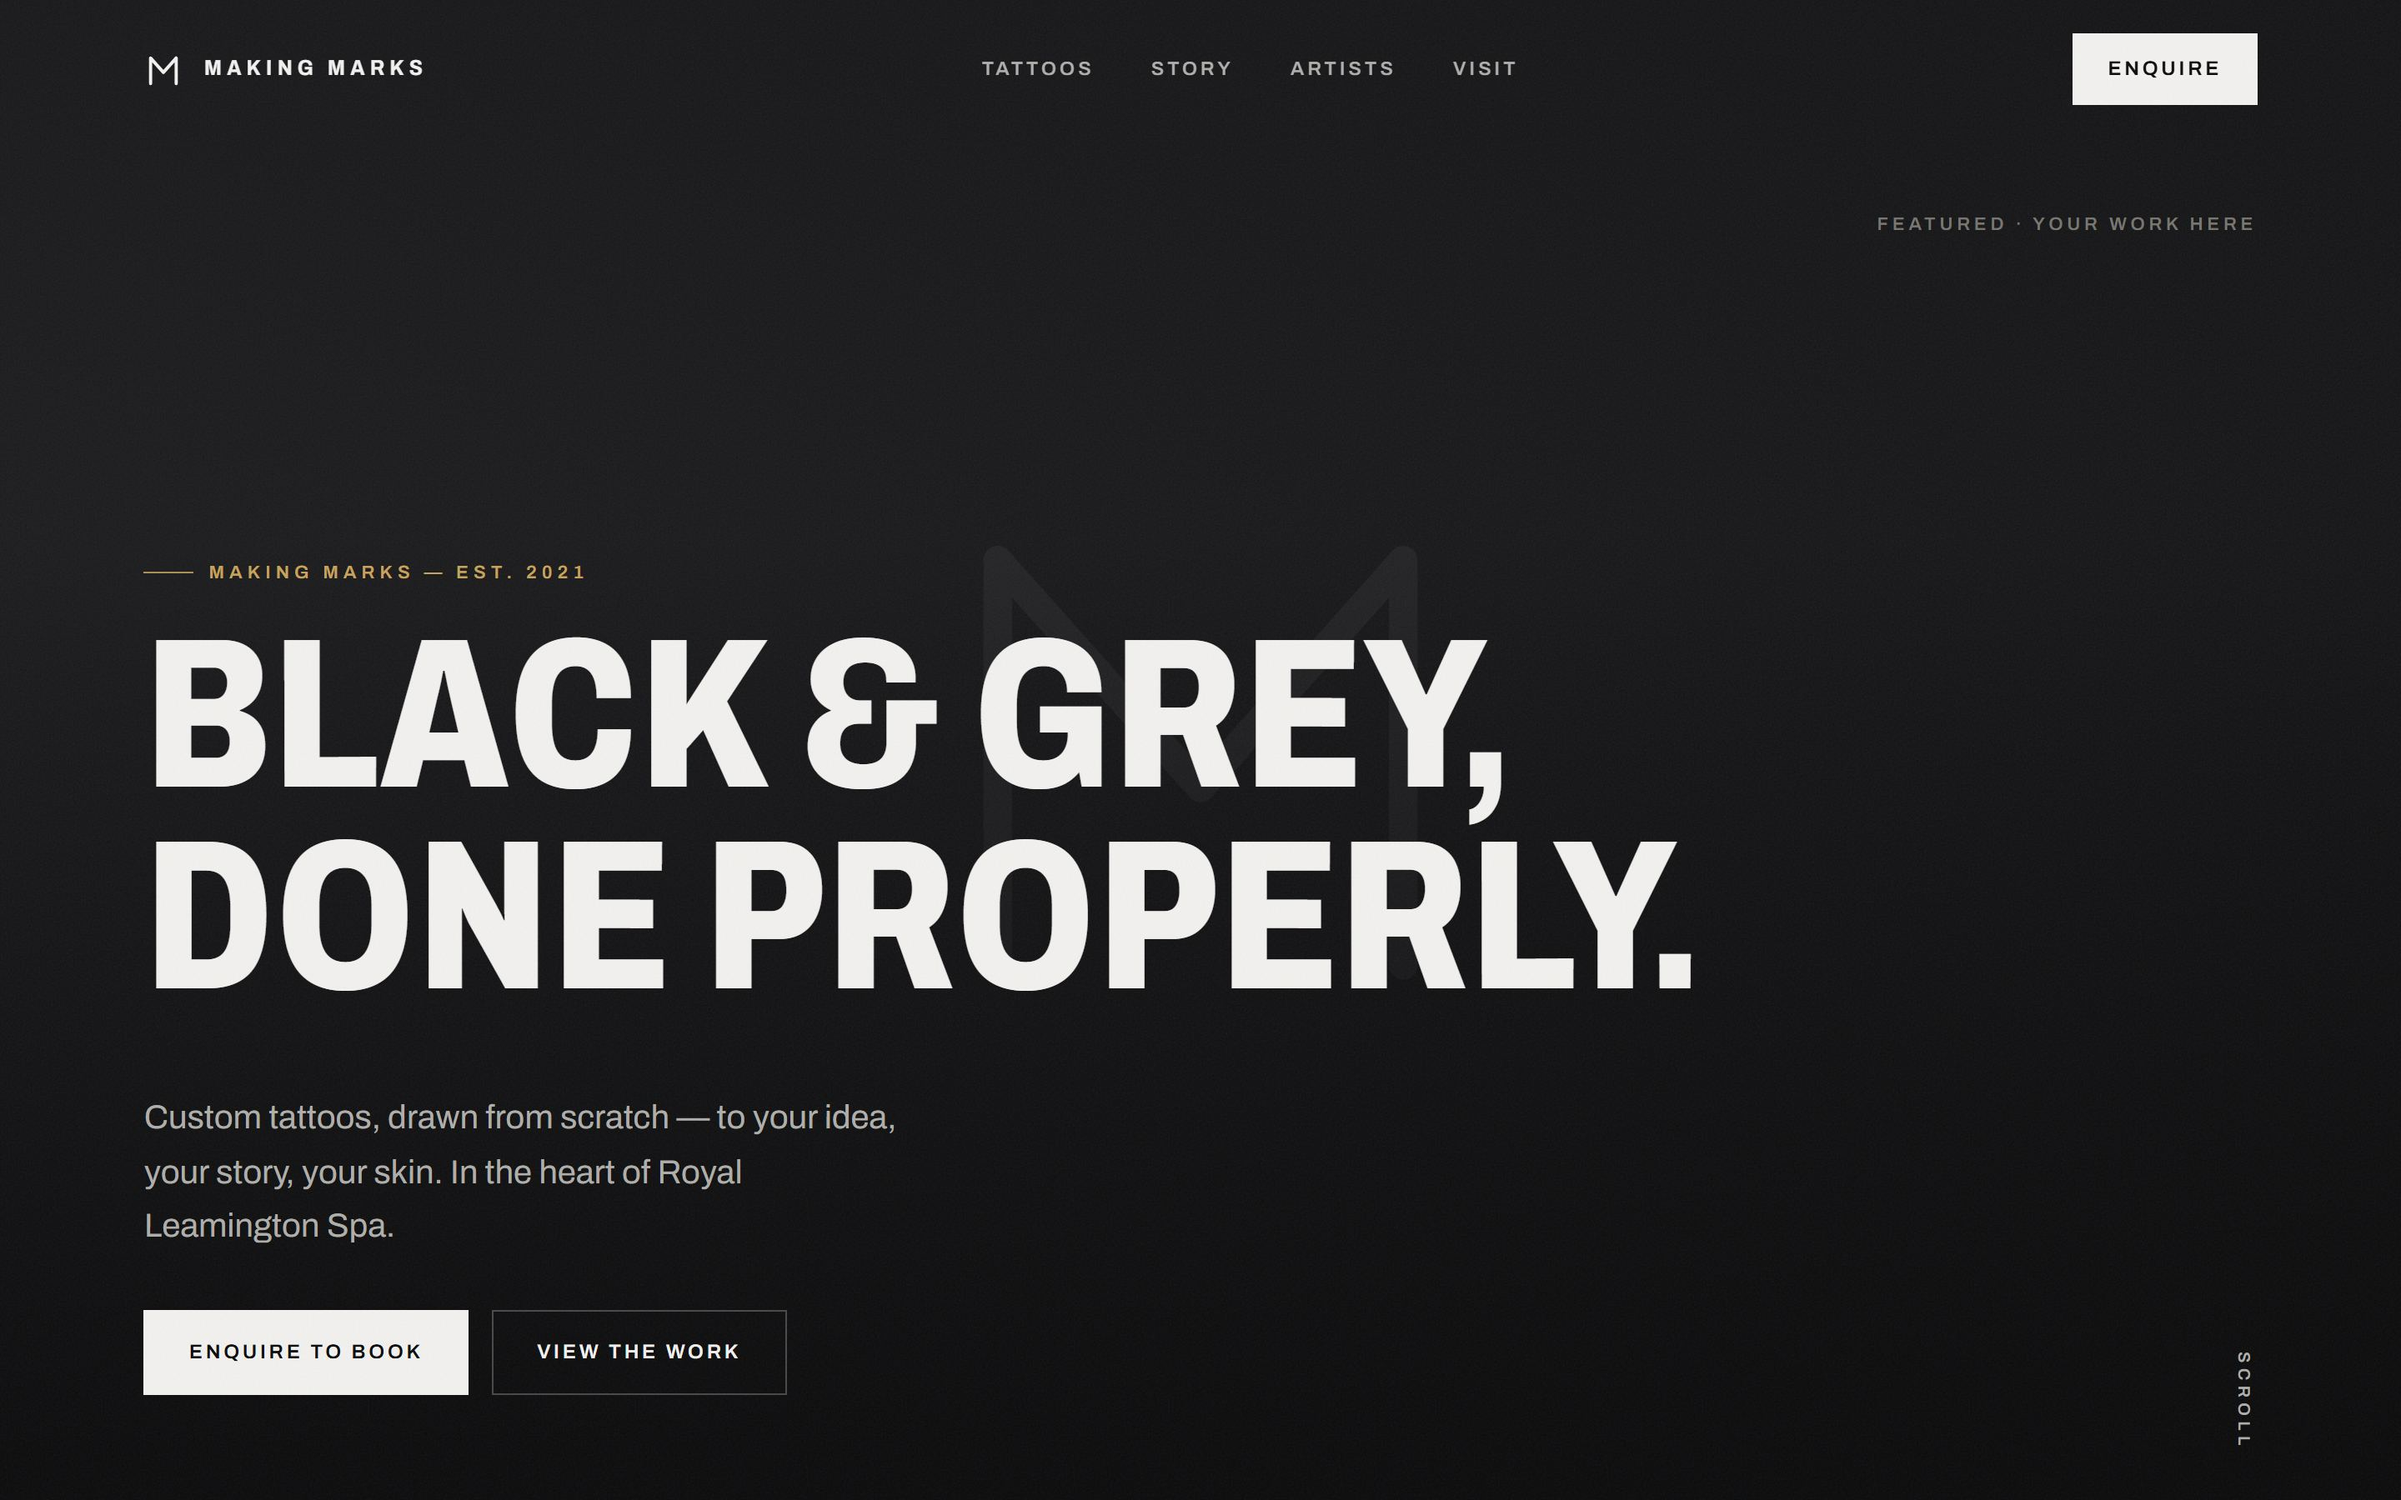
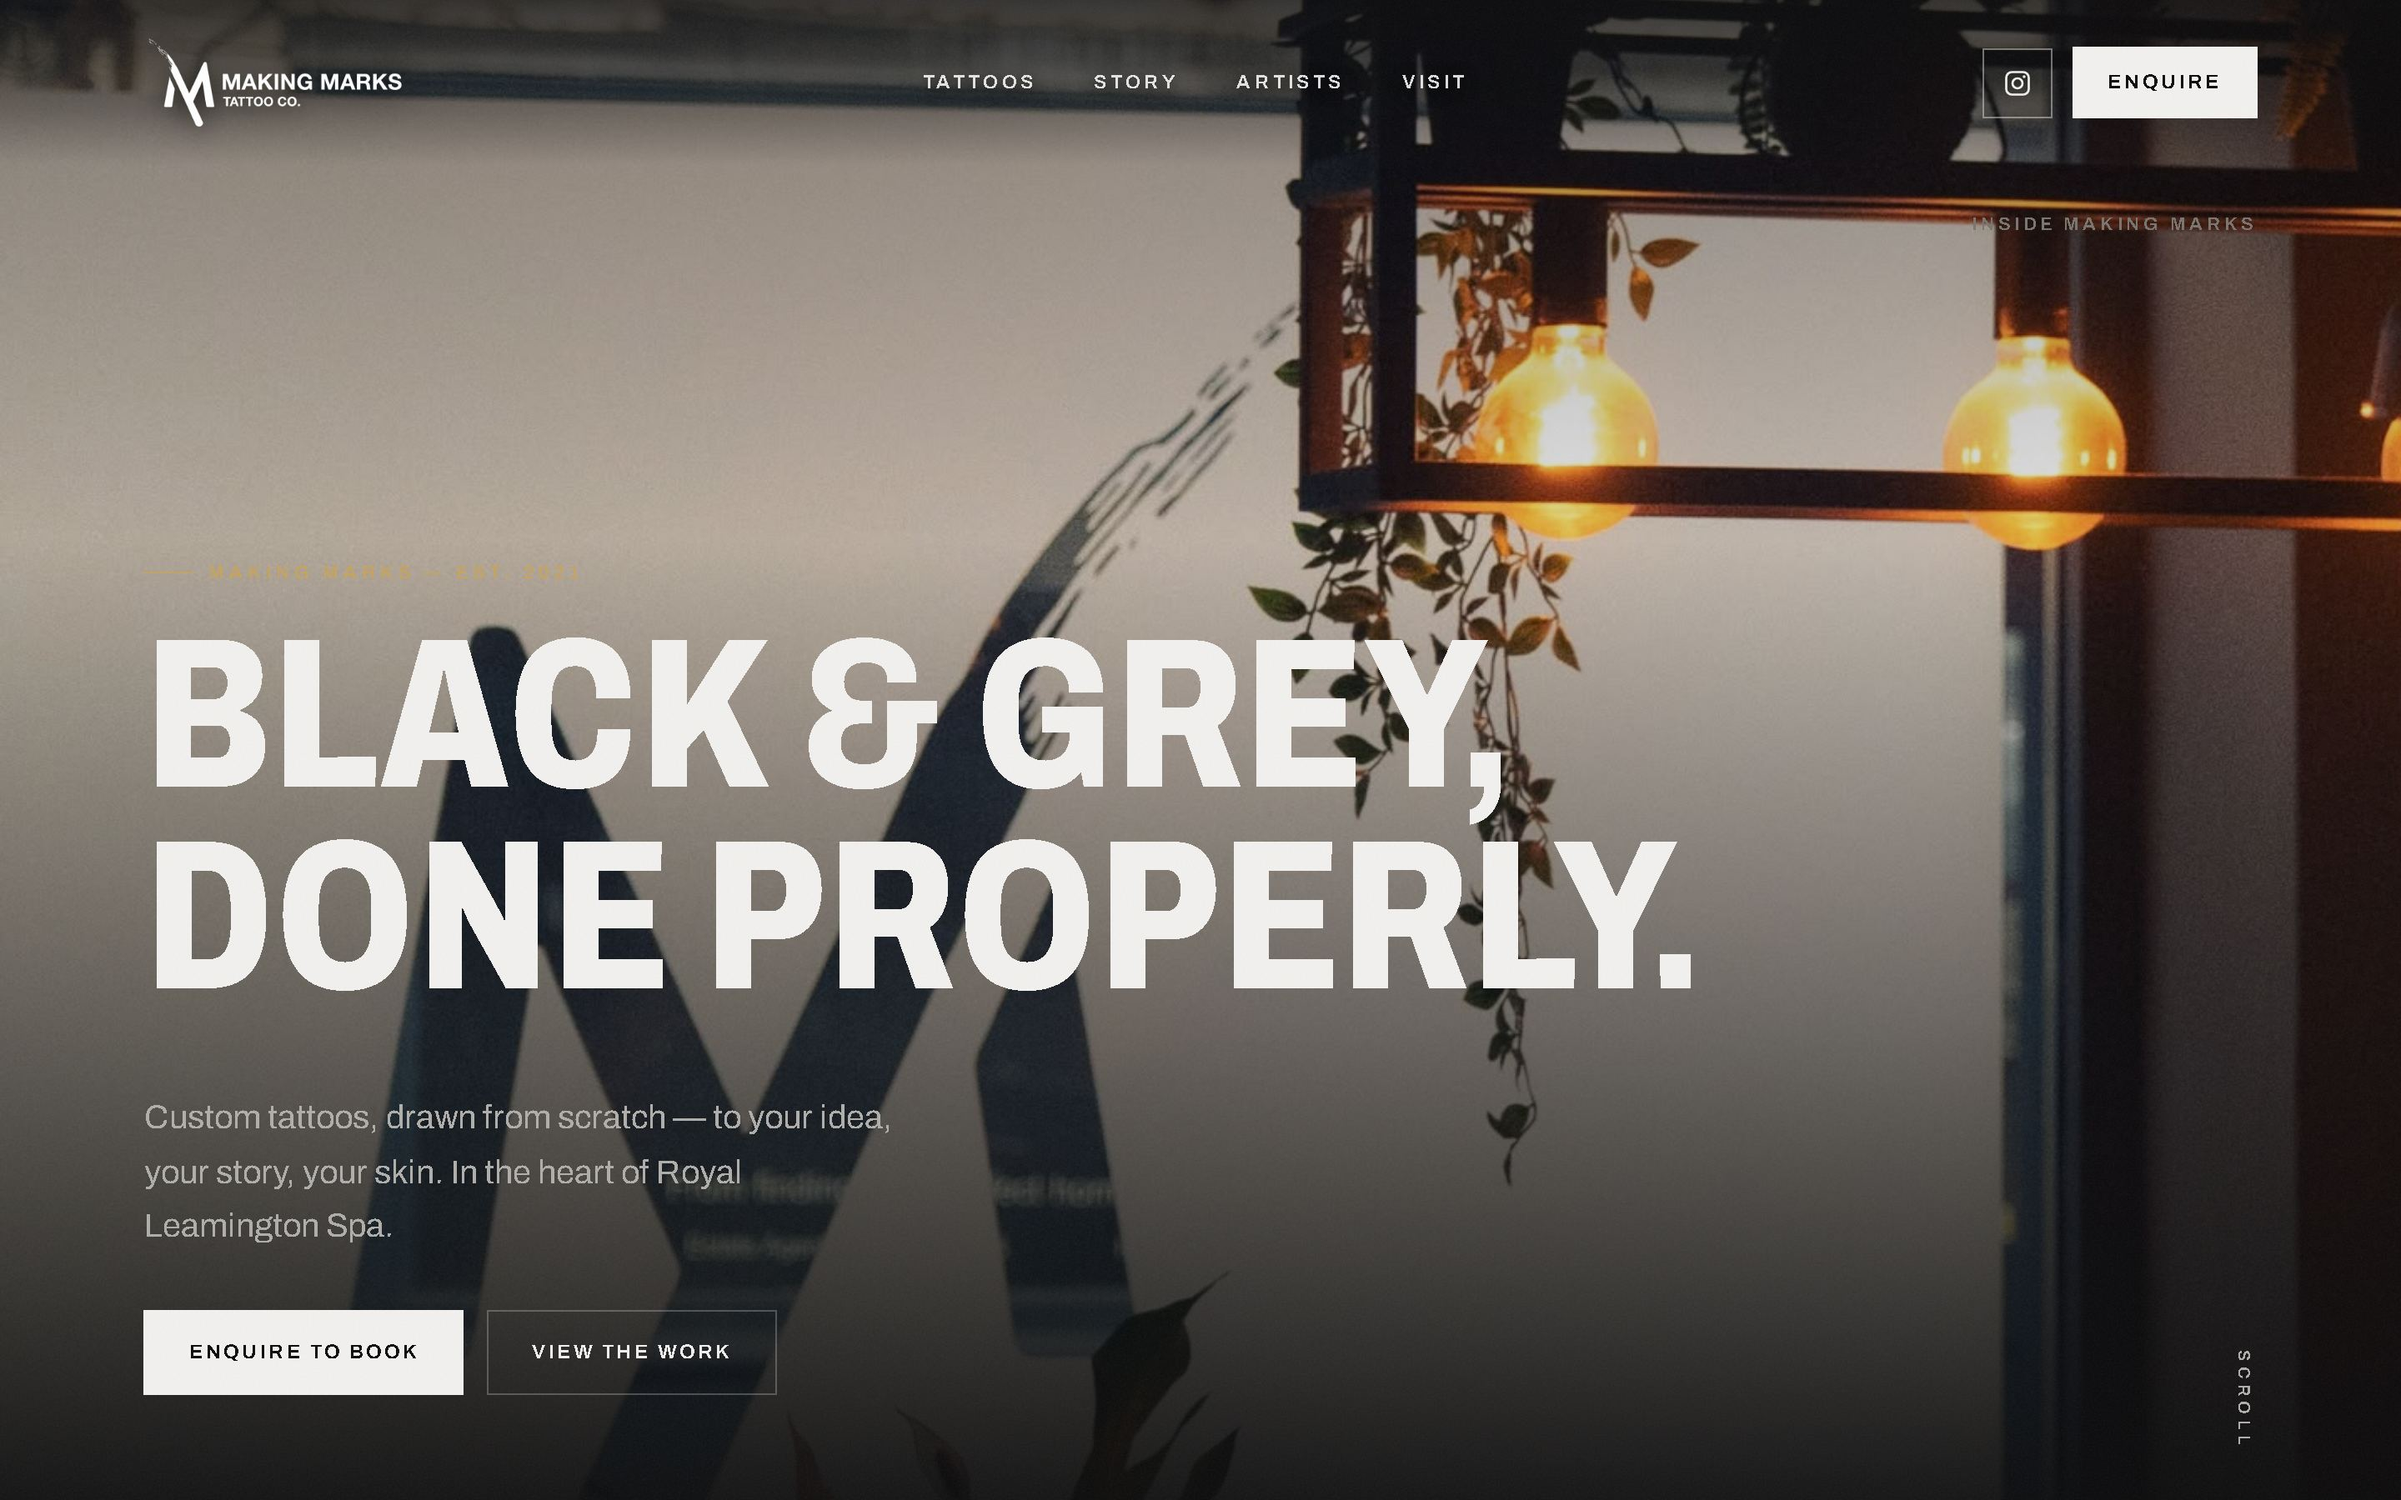
fix: refresh Making Marks portfolio panel against live site
Re-captured screenshots post Aug-12 studio refresh; reconciled copy — Instagram embed replaced by Fresha booking + links, stack corrected to Astro/JSON-LD/Sitemap/Static HTML.

diff --git a/src/data/projects.js b/src/data/projects.js
@@ -47,7 +47,7 @@ export const projects = [
     title: 'Making Marks Tattoo Co',
     tagline: 'Black & grey studio site with multi-page local SEO',
     description:
-      'A multi-page studio presence for a Leamington Spa tattoo shop — artists, aftercare, FAQ, and visit pages with structured data so both Google and AI systems can understand the business.',
+      'A seven-page Astro site for a Royal Leamington Spa tattoo studio — artist profiles for Connor, Kev and Liv, a full aftercare guide, FAQ, and a Fresha booking flow. Every page carries structured data, led by a TattooParlor schema with address, hours and service area, so Google and AI search understand the studio.',
     tag: 'Multi-page',
     location: 'Leamington Spa',
     industry: 'Tattoo studio',
@@ -57,9 +57,9 @@ export const projects = [
     monogram: 'MM',
     accent: '#7B61FF',
     results: [
-      'Dedicated routes for SEO & GEO discoverability',
-      'FAQ + visit schema for local intent',
-      'Editorial gallery-ready layout',
+      'Seven dedicated pages, each with SEO + JSON-LD schema',
+      'TattooParlor schema — address, hours & service area',
+      'Fresha booking + Instagram links (no fragile feed embed)',
     ],
     stack: ['Astro', 'JSON-LD', 'Sitemap', 'Static HTML'],
   },
